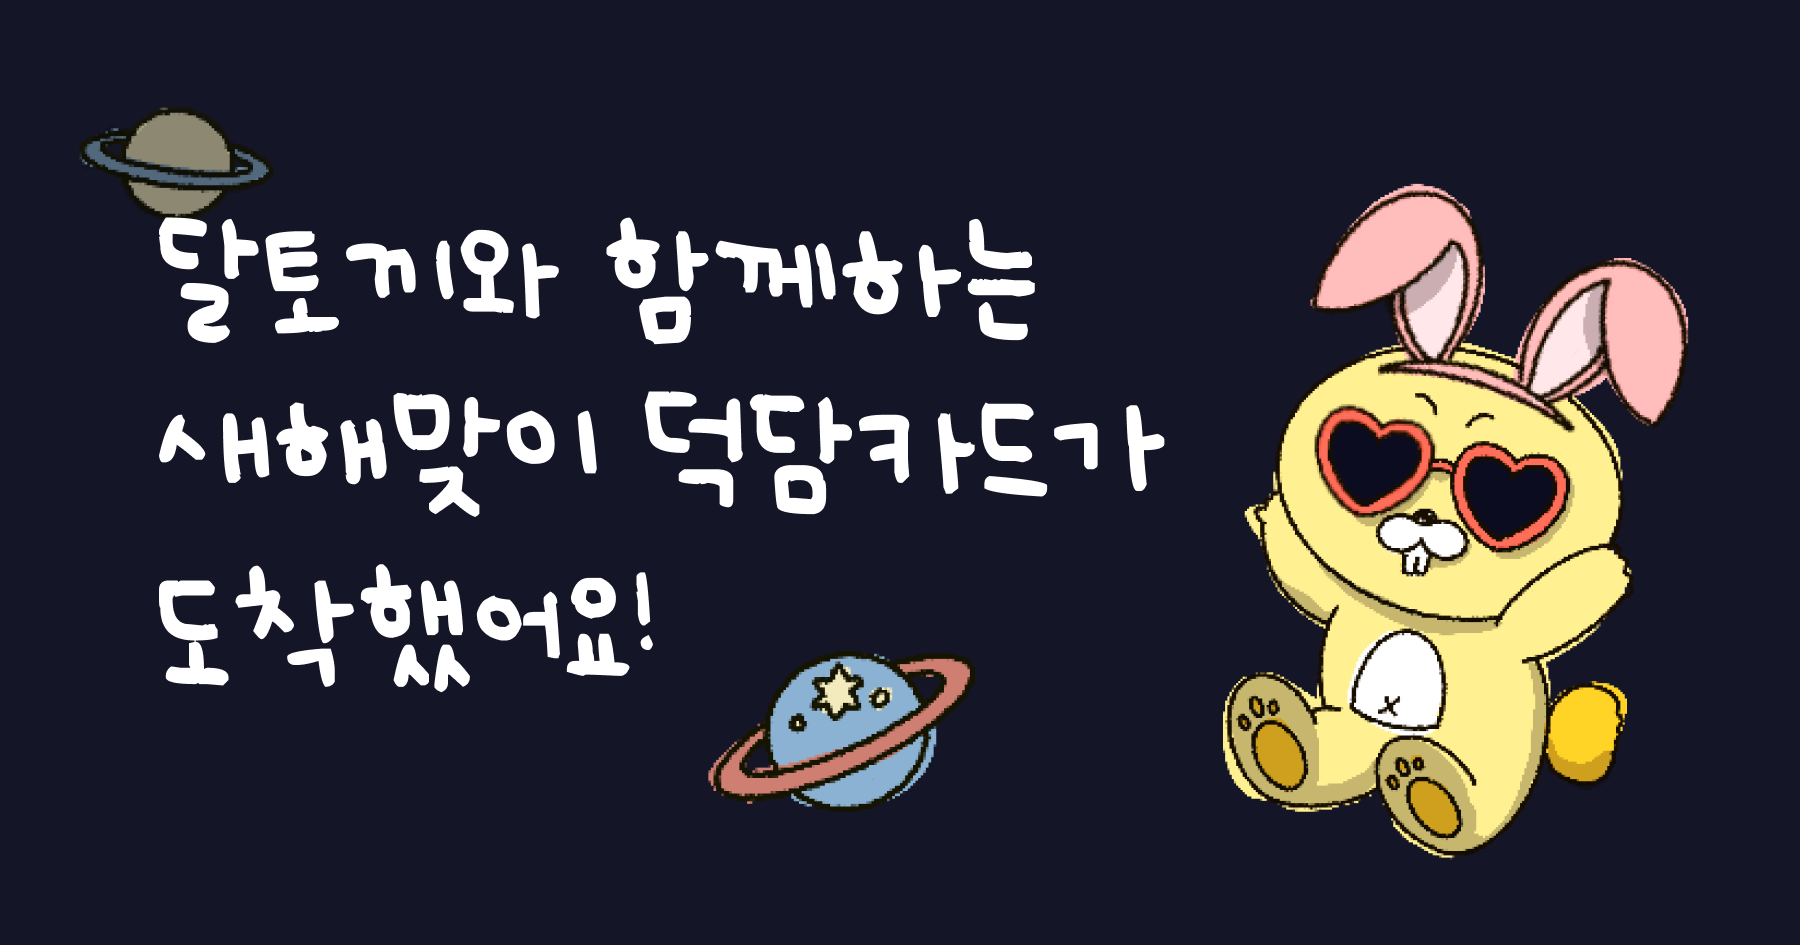
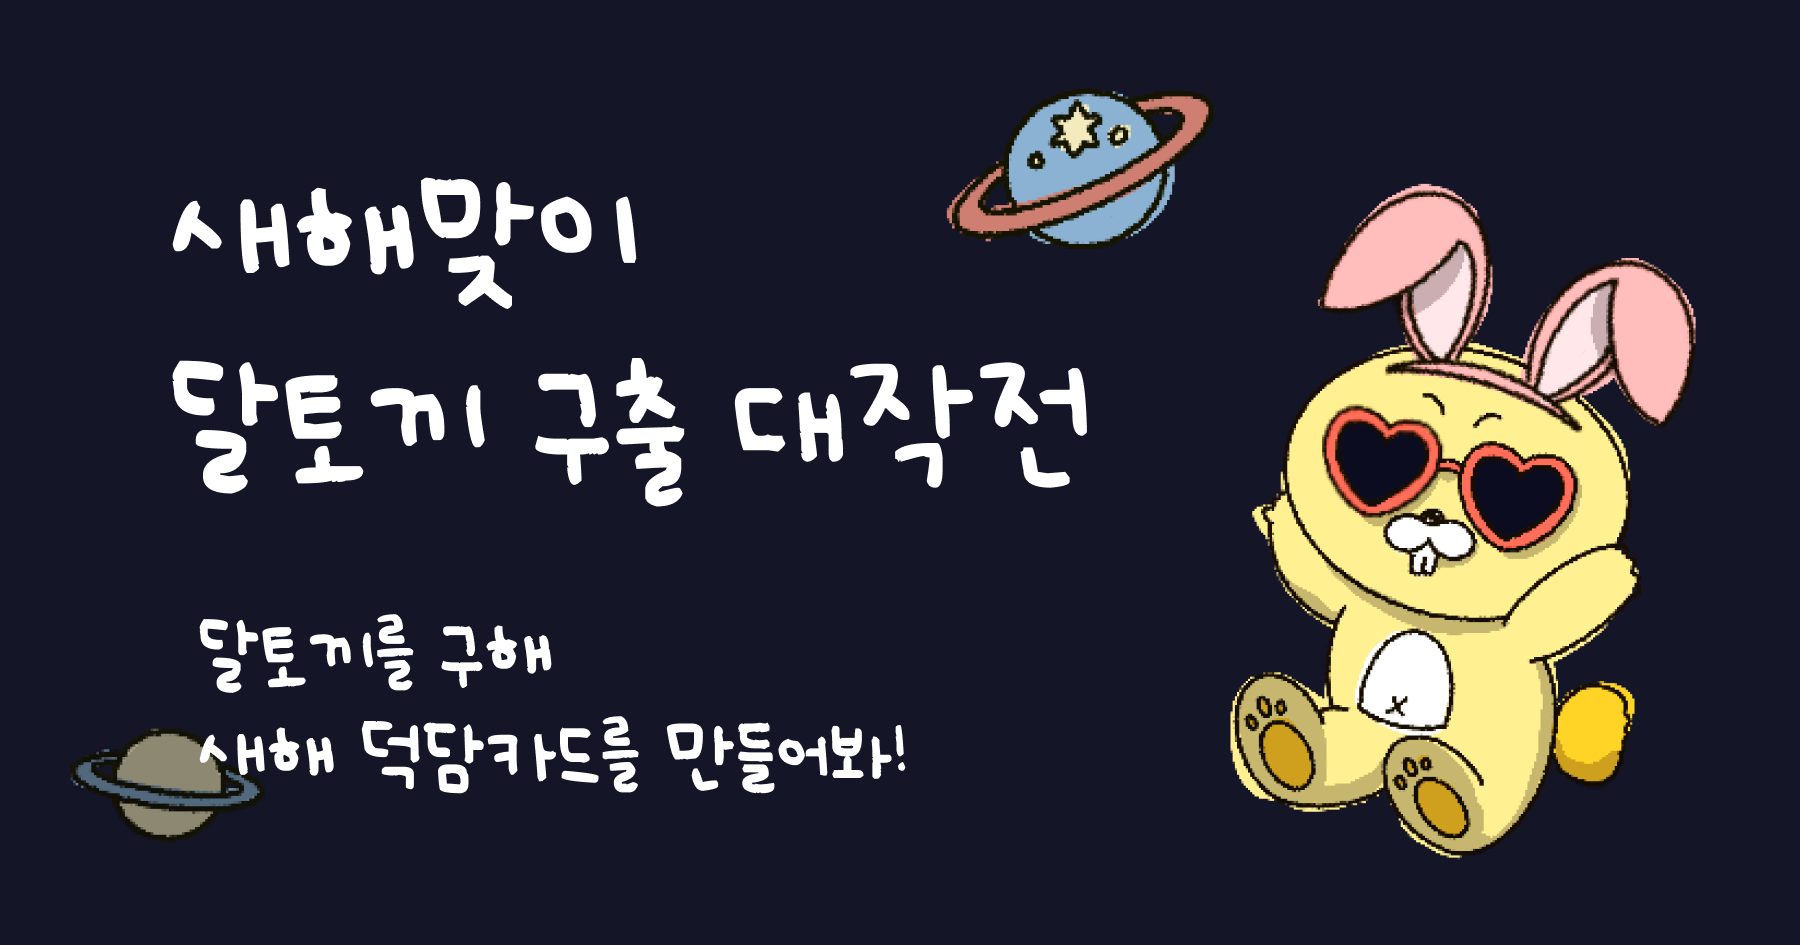
feat: 친구 공유 페이지 og 요소 수정

diff --git a/app/routes/rabbit-card_.$rabbit.tsx b/app/routes/rabbit-card_.$rabbit.tsx
@@ -1,5 +1,5 @@
 import { css } from "@emotion/react";
-import { useParams } from "@remix-run/react";
+import { MetaFunction, useParams } from "@remix-run/react";
 import { useEffect, useState } from "react";
 import { Button } from "~/components/button";
 import { FloatingBottomArea } from "~/components/floating-bottom-area";
@@ -15,6 +15,16 @@ import { useGetPlayerGameInfos } from "~/hooks/apis/useGetPlayerGameInfos";
 //   username: "정졍",
 //   message: "새해 복 마니 받아라\n뿡뿡💨",
 // };
+
+export const meta: MetaFunction = () => {
+  return [
+    { property: "og:title", content: "띵동! 메시지가 도착했어요!" },
+    { property: "og:description", content: "달토끼와 함께하는 새해 덕담카드를 보러 오세요" },
+    { property: "og:image", content: "/images/og/og-card.png" },
+    { property: "og:image:width", content: "1200" },
+    { property: "og:image:height", content: "630" },
+  ];
+};
 
 type gameResult = {
   image: string;

diff --git a/app/root.tsx b/app/root.tsx
@@ -19,8 +19,8 @@ export const links: LinksFunction = () => [
 
 export const meta: MetaFunction = () => {
   return [
-    { property: "og:title", content: "띵동! 메세지가 도착했어요!" },
-    { property: "og:description", content: "달토끼와 함께하는 새해 덕담카드를 보러 오세요" },
+    { property: "og:title", content: "새해맞이 달토끼 구출 대작전" },
+    { property: "og:description", content: "틀린 그림찾기로 달토끼를 구해줘!" },
     { property: "og:image", content: "/images/og/og.png" },
     { property: "og:image:width", content: "1200" },
     { property: "og:image:height", content: "630" },
